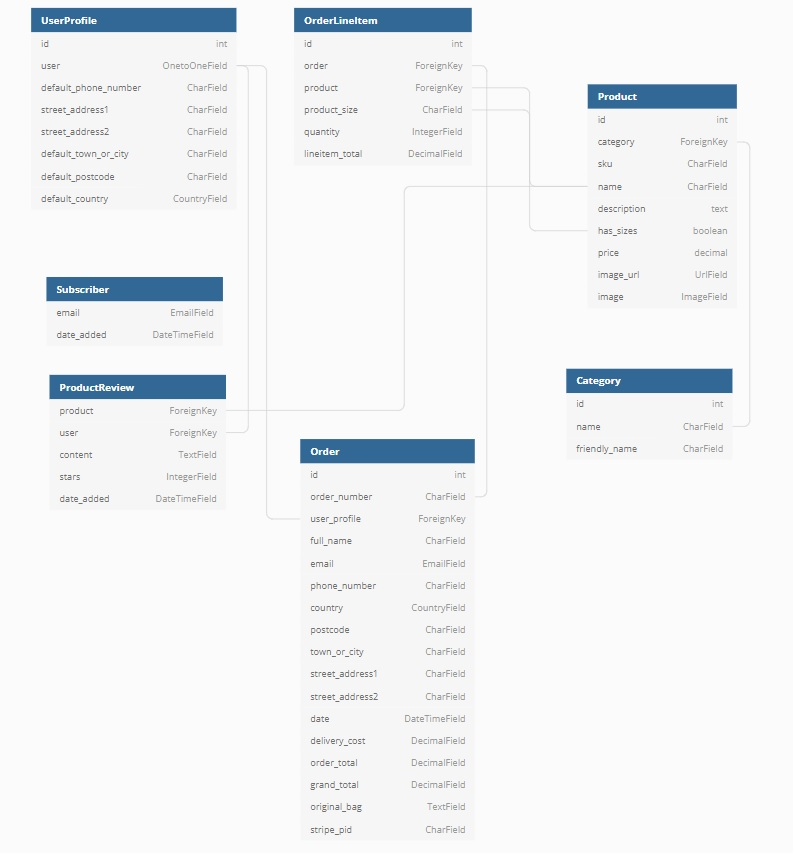
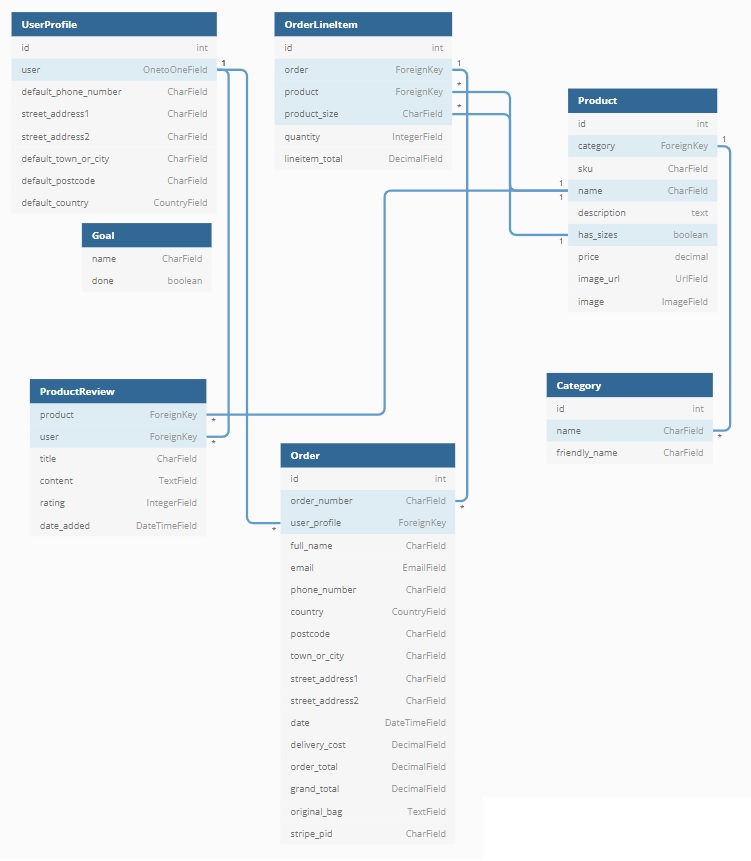
new models and data schema in README.md

Changed region(s): [[0.0, 0.0, 0.98, 0.972], [0.3675, 0.8505, 0.4594, 0.972]]

diff --git a/README.md b/README.md
@@ -151,6 +151,7 @@ The schema below has been created with dbdiagram.io:
 | image | ImageField | null=True, blank=True |
 
 **Product Review**
+
 | Field | Field Type | Field Options |
 | --- | --- | --- |
 | product | ForeignKey | Product, related_name='reviews', null=True, blank=True, on_delete=models.SET_NULL |
@@ -174,6 +175,13 @@ The schema below has been created with dbdiagram.io:
 | default_town_or_city | CharField | max_length=40, null=True, blank=True |
 | default_postcode | CharField | max_length=20, null=True, blank=True |
 | default_country | CountryField | blank_label="Country", null=True, blank=True |
+
+**Goal Model**
+
+| Field | Field Type | Field Options |
+| --- | :--- | ---|
+| name | CharField | max_length=50, null=False, blank=False |
+| done | BooleanField | null=False, blank=False, default=False |
 
 # Technologies Used
 
